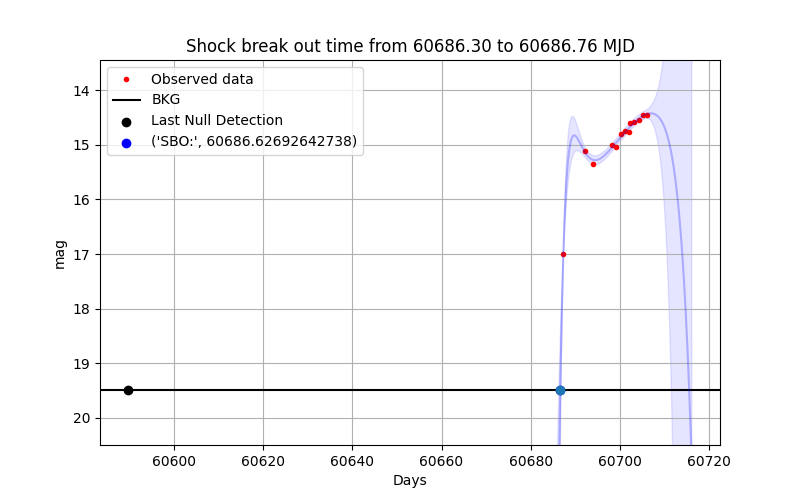
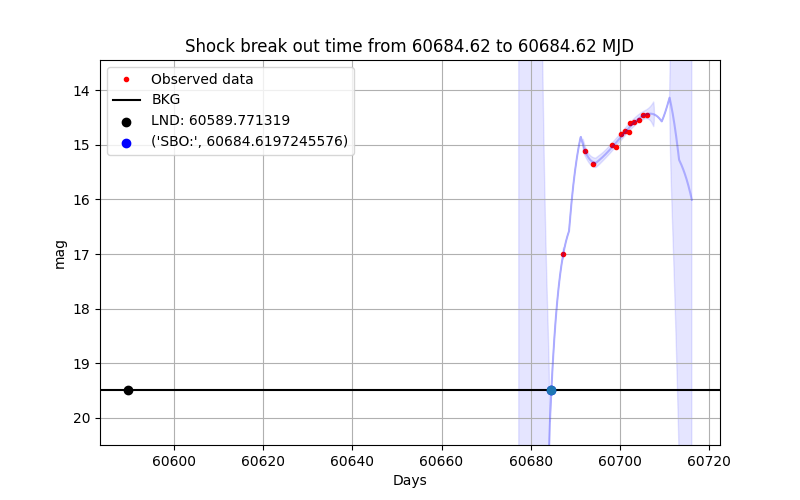
added more fits

diff --git a/O4_SN_fits/SN2024xuo/SN2024xuo_multiband.py b/O4_SN_fits/SN2024xuo/SN2024xuo_multiband.py
@@ -1,0 +1,65 @@
+import numpy as np
+from SNutils import SN
+from SNkernels import KernelUtils as KU
+from SNkernels import QuarticKernel,ExpCompositeKernel, ReducedQuarticKernel  # Import custom kernels
+from sklearn.gaussian_process.kernels import WhiteKernel
+import os
+import pandas as pd
+
+def main():
+
+      # Define the directory containing light curve files
+    #lc_directory = '../../O4_SN/o4_supernovae/SN_2025vzq/'
+    lc_directory = r'C:\Users\conno\New folder\SN\O4_SN\o4_supernovae\SN_2024xuo'
+#C:\Users\conno\New folder\SN\O4_SN\o4_supernovae\SN_2023abdg
+    # Get a list of all light curve files in the directory
+    # Assuming all files in this directory are light curve files with the specified format
+    lcs = [os.path.join(lc_directory, f) for f in os.listdir(lc_directory) if f.endswith('.dat')] # Assuming .dat files
+    mag_FRG = []
+    dmag_FRG = []
+    t_FRG = []
+
+    # Loop through each light curve file to combine the data
+    for f in lcs:
+        df_ex = pd.read_csv(f ,sep=",", names=['time', 'mag','dmag'], skiprows=1)
+        time_i = df_ex['time'].values
+        mag_i = df_ex['mag'].values
+        dmag_i = df_ex['dmag'].values
+
+        mag_FRG.extend(list(mag_i))
+        dmag_FRG.extend(list(dmag_i))
+        t_FRG.extend(list(time_i))
+        
+      #print('1')
+    combined_lc_df = pd.DataFrame({'MJD': t_FRG, 'mag': mag_FRG, 'dmag': dmag_FRG})
+    combined_lc_df = combined_lc_df[~np.isclose(combined_lc_df['MJD'], 60589.771319)]
+    combined_lc_file = 'combined_lightcurve.csv'
+    combined_lc_df.to_csv(combined_lc_file, index=False)
+
+    supernova = SN(bkg=r'C:\Users\conno\New folder\O4_SN\o4_BKG\sn_2024xuo_goto_L_ul.dat', lc = combined_lc_file)
+    # Load supernova data
+    #supernova = SN(bkg='../../O4_SN/o4_BKG/SN_2023_abdg_background_tns.txt', lc='../../O4_SN/o4_supernovae/SN_2023abdg/sn_2023abdg_atlas_c.dat')
+    #supernova = SN(bkg='sn_2023_abdg_background_tns.txt', lc='sn_2023abdg_asas_g.dat')
+    # Read and plot data
+    time, mag = supernova.read_data()
+    supernova.plot_data()
+
+    # Define supernova kernel
+    kernel = (
+            #ReducedQuarticKernel() * 
+            ExpCompositeKernel()
+        
+            + WhiteKernel(noise_level=1e-3, noise_level_bounds=(1e-6, 1e1))
+        )
+
+    # Fit Gaussian Process Regression model
+    Xp, yp, ystd = KU.fit(time, mag, kernel)
+
+    # Estimate shock break out time
+    supernova.shock_breakout(Xp, yp, ystd)
+ 
+    # Plot the results
+    supernova.plot_fit(Xp, yp, ystd)
+
+if __name__ == "__main__":
+    main()

diff --git a/O4_SN_fits/SN2025kq/SN2025kq_multiband.py b/O4_SN_fits/SN2025kq/SN2025kq_multiband.py
@@ -1,0 +1,65 @@
+import numpy as np
+from SNutils import SN
+from SNkernels import KernelUtils as KU
+from SNkernels import QuarticKernel,ExpCompositeKernel, ReducedQuarticKernel  # Import custom kernels
+from sklearn.gaussian_process.kernels import WhiteKernel
+import os
+import pandas as pd
+
+def main():
+
+      # Define the directory containing light curve files
+    #lc_directory = '../../O4_SN/o4_supernovae/SN_2025vzq/'
+    lc_directory = r'C:\Users\conno\New folder\SN\O4_SN\o4_supernovae\SN_2025kq'
+#C:\Users\conno\New folder\SN\O4_SN\o4_supernovae\SN_2023abdg
+    # Get a list of all light curve files in the directory
+    # Assuming all files in this directory are light curve files with the specified format
+    lcs = [os.path.join(lc_directory, f) for f in os.listdir(lc_directory) if f.endswith('.dat')] # Assuming .dat files
+    mag_FRG = []
+    dmag_FRG = []
+    t_FRG = []
+
+    # Loop through each light curve file to combine the data
+    for f in lcs:
+        df_ex = pd.read_csv(f ,sep=",", names=['time', 'mag','dmag'], skiprows=1)
+        time_i = df_ex['time'].values
+        mag_i = df_ex['mag'].values
+        dmag_i = df_ex['dmag'].values
+
+        mag_FRG.extend(list(mag_i))
+        dmag_FRG.extend(list(dmag_i))
+        t_FRG.extend(list(time_i))
+        
+      #print('1')
+    combined_lc_df = pd.DataFrame({'MJD': t_FRG, 'mag': mag_FRG, 'dmag': dmag_FRG})
+    combined_lc_df = combined_lc_df[~np.isclose(combined_lc_df['MJD'], 60618.80947)]
+    combined_lc_file = 'combined_lightcurve.csv'
+    combined_lc_df.to_csv(combined_lc_file, index=False)
+
+    supernova = SN(bkg=r'C:\Users\conno\New folder\O4_SN\o4_BKG\sn_2025kq_goto_L_ul.dat', lc = combined_lc_file)
+    # Load supernova data
+    #supernova = SN(bkg='../../O4_SN/o4_BKG/SN_2023_abdg_background_tns.txt', lc='../../O4_SN/o4_supernovae/SN_2023abdg/sn_2023abdg_atlas_c.dat')
+    #supernova = SN(bkg='sn_2023_abdg_background_tns.txt', lc='sn_2023abdg_asas_g.dat')
+    # Read and plot data
+    time, mag = supernova.read_data()
+    supernova.plot_data()
+
+    # Define supernova kernel
+    kernel = (
+            #ReducedQuarticKernel() * 
+            ExpCompositeKernel()
+        
+            + WhiteKernel(noise_level=1e-3, noise_level_bounds=(1e-6, 1e1))
+        )
+
+    # Fit Gaussian Process Regression model
+    Xp, yp, ystd = KU.fit(time, mag, kernel)
+
+    # Estimate shock break out time
+    supernova.shock_breakout(Xp, yp, ystd)
+ 
+    # Plot the results
+    supernova.plot_fit(Xp, yp, ystd)
+
+if __name__ == "__main__":
+    main()

diff --git a/O4_SN_fits/SN2024xuo/SNutils.py b/O4_SN_fits/SN2024xuo/SNutils.py
@@ -55,19 +55,17 @@ class SN:
         plt.gca().invert_yaxis()
         #plt.plot(self.t_sbo+self.epoch, self.ave_BKG, marker="*", markersize=15, label="t_SBO",     color='y')
         df_bkg = pd.read_csv(self.bkg)
-        plt.scatter(df_bkg['MJD'], df_bkg['mag'], color='black', label='Last Null Detection')
+        #plt.scatter(df_bkg['MJD'], df_bkg['mag'], color='black', label='Last Null Detection')
         label = 'LND: {}'
         df_bkg = pd.read_csv(self.bkg)
         lnd = float(df_bkg['MJD'].iloc[0] if isinstance(df_bkg['MJD'], pd.Series) else df_bkg['MJD'])
         lnd_label = label.format(lnd)
-        #plt.scatter(df_bkg['MJD'], df_bkg['mag'], color='black', label=lnd_label)
+        plt.scatter(df_bkg['MJD'], df_bkg['mag'], color='black', label=lnd_label)
         SBO_label = 'SBO:', float(self.t_sbo+self.epoch)
         plt.scatter(self.t_sbo+self.epoch, self.ave_BKG, color='blue', label = SBO_label)
         plt.grid()
         plt.legend()
         ax = plt.gca()
-        df_bkg = pd.read_csv(self.bkg)
-        lnd = float(df_bkg['MJD'].iloc[0] if isinstance(df_bkg['MJD'], pd.Series) else df_bkg['MJD'])
         if self.t_sbo+self.epoch < lnd:
           print('t_sbo calculated to be before lnd')
         #ax.annotate(self.t_sbo+self.epoch,

diff --git a/O4_SN_fits/SN2025kq/SN2025kq_asas_g_band.py b/O4_SN_fits/SN2025kq/SN2025kq_asas_g_band.py
@@ -1,0 +1,33 @@
+import numpy as np
+from SNutils import SN
+from SNkernels import KernelUtils as KU
+from SNkernels import QuarticKernel,ExpCompositeKernel, ReducedQuarticKernel  # Import custom kernels
+from sklearn.gaussian_process.kernels import WhiteKernel
+
+def main():
+    # Load supernova data
+    supernova = SN(bkg='../../O4_SN/o4_supernovae/SN_2025kq/SN_2025kq_goto_L_ul.dat', lc='../../O4_SN/o4_supernovae/SN_2025kq/sn_2025kq_asas_g.dat')
+    #supernova = SN(bkg='sn_2023_abdg_background_tns.txt', lc='sn_2023abdg_asas_g.dat')
+    # Read and plot data
+    time, mag = supernova.read_data()
+    supernova.plot_data()
+
+    # Define supernova kernel
+    kernel = (
+            #ReducedQuarticKernel() * 
+            ExpCompositeKernel()
+        
+            + WhiteKernel(noise_level=1e-3, noise_level_bounds=(1e-6, 1e1))
+        )
+
+    # Fit Gaussian Process Regression model
+    Xp, yp, ystd = KU.fit(time, mag, kernel)
+
+    # Estimate shock break out time
+    supernova.shock_breakout(Xp, yp, ystd)
+ 
+    # Plot the results
+    supernova.plot_fit(Xp, yp, ystd)
+
+if __name__ == "__main__":
+    main()
